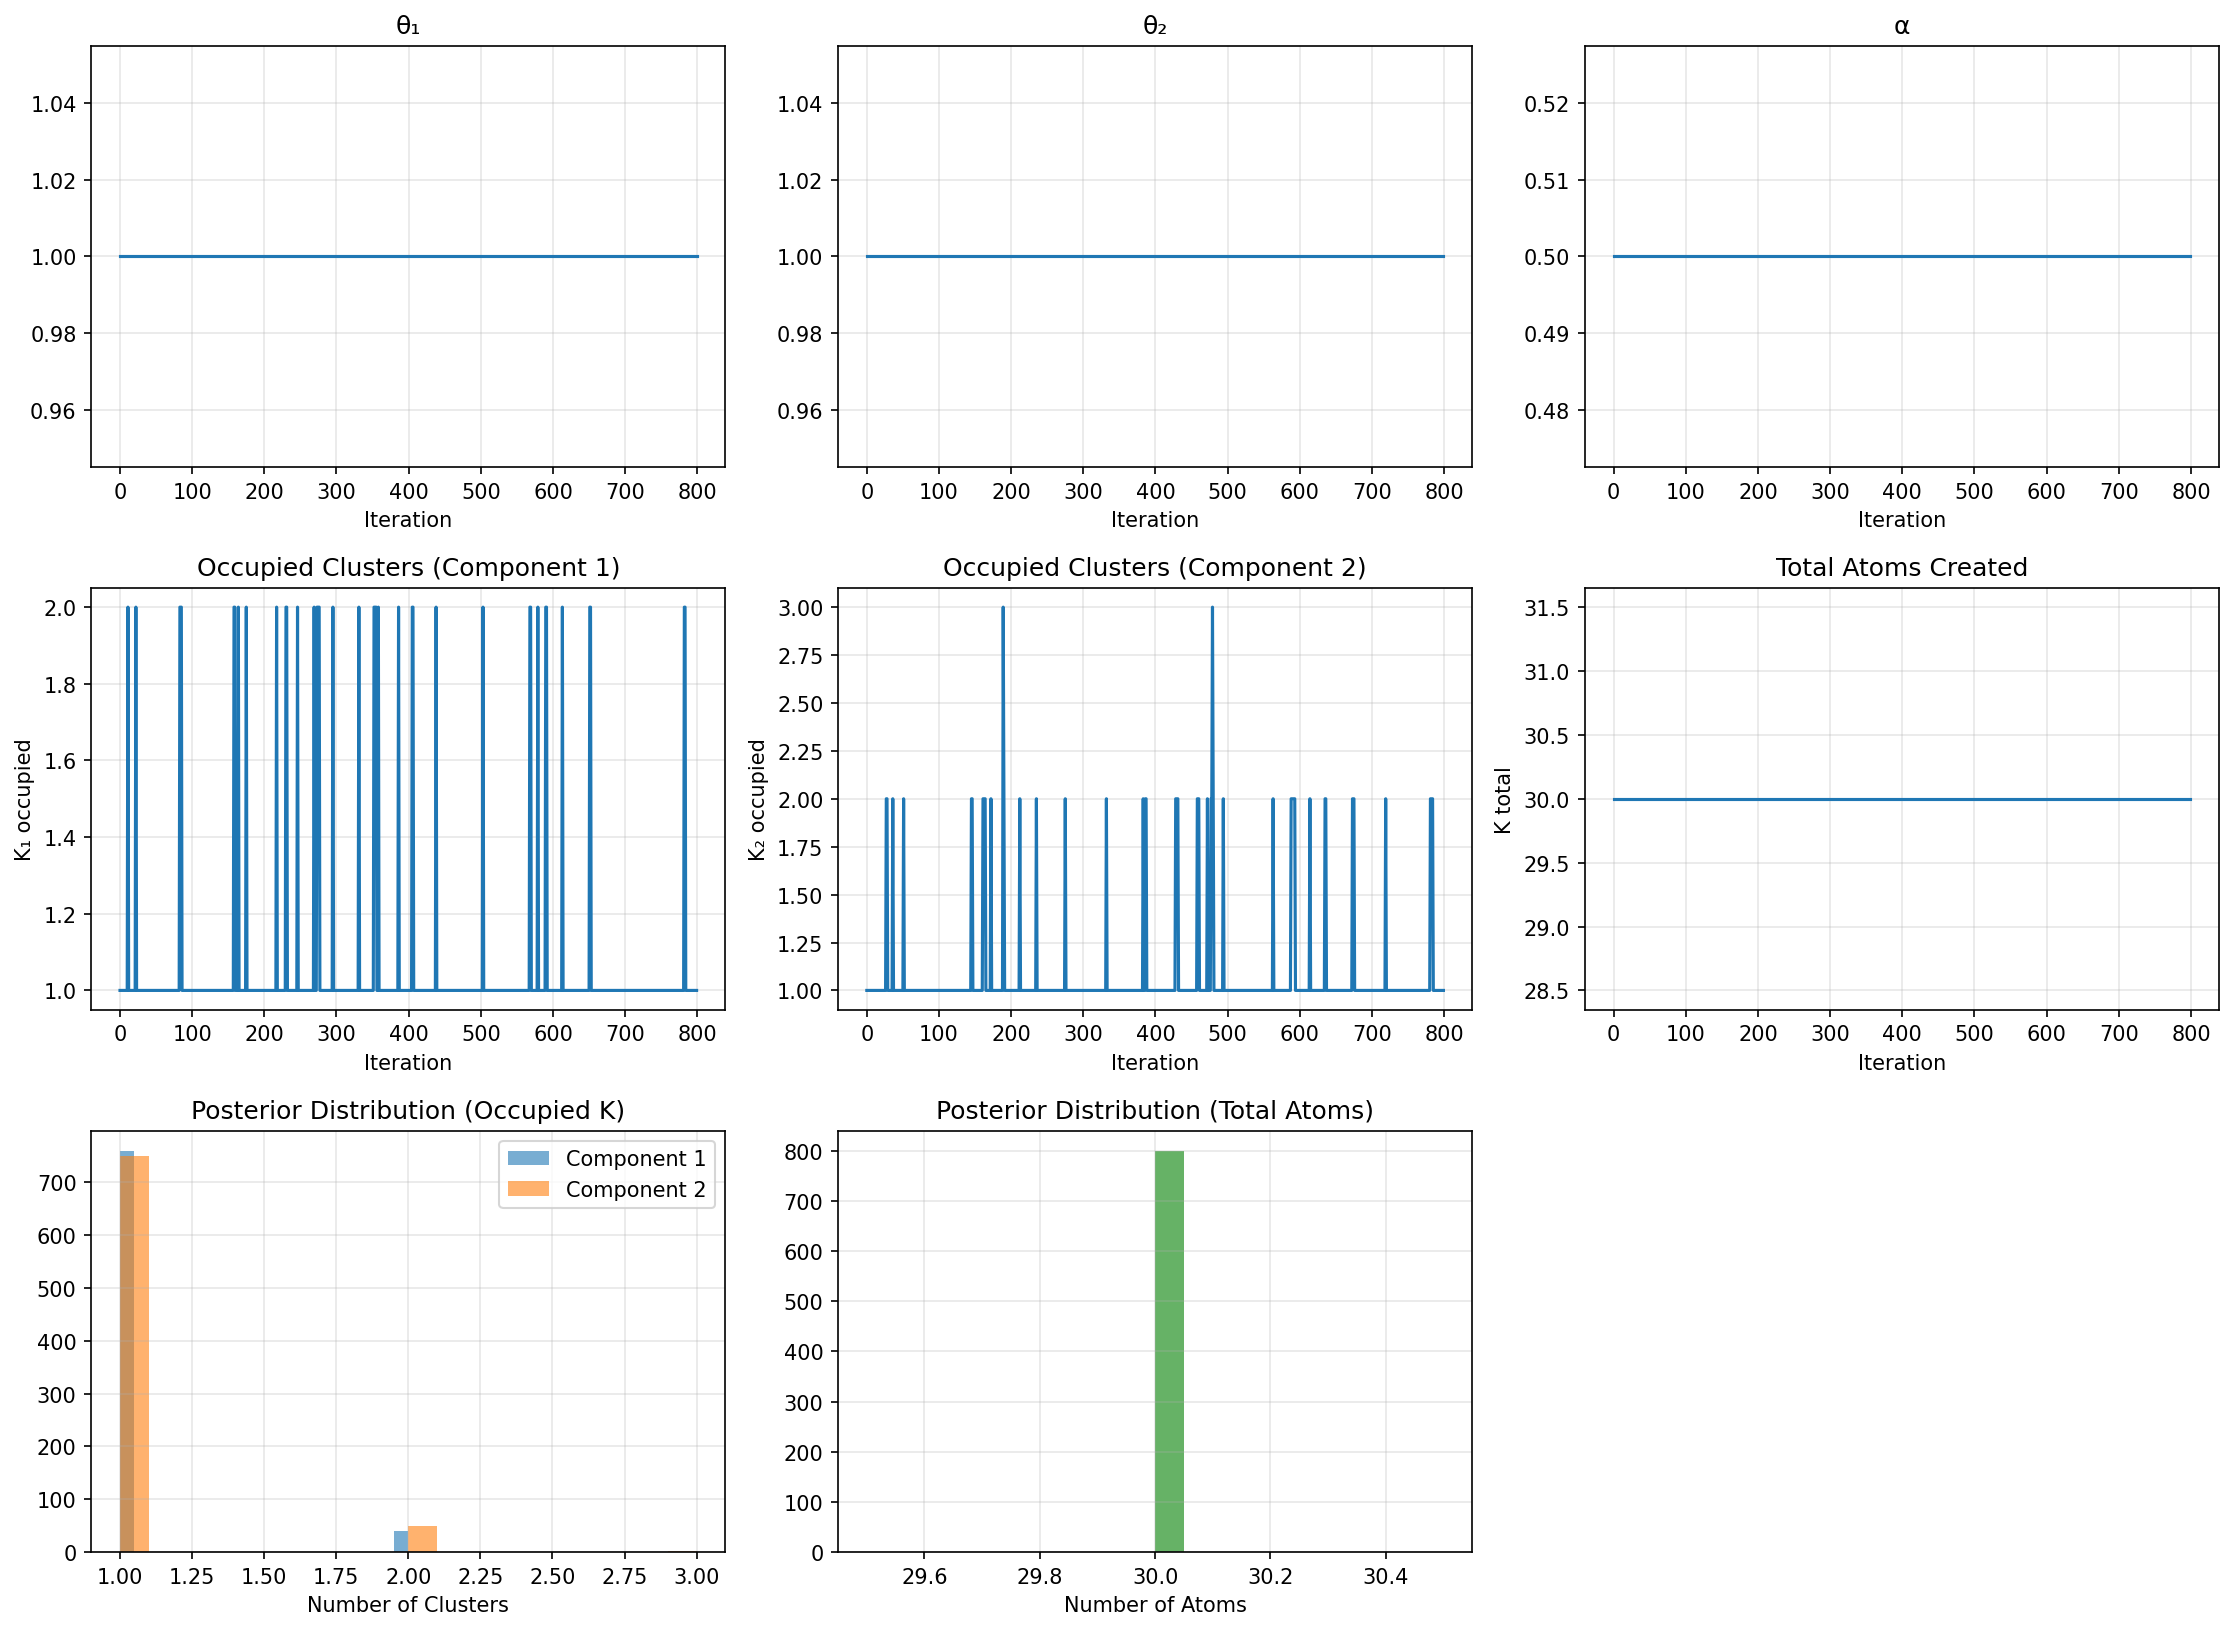
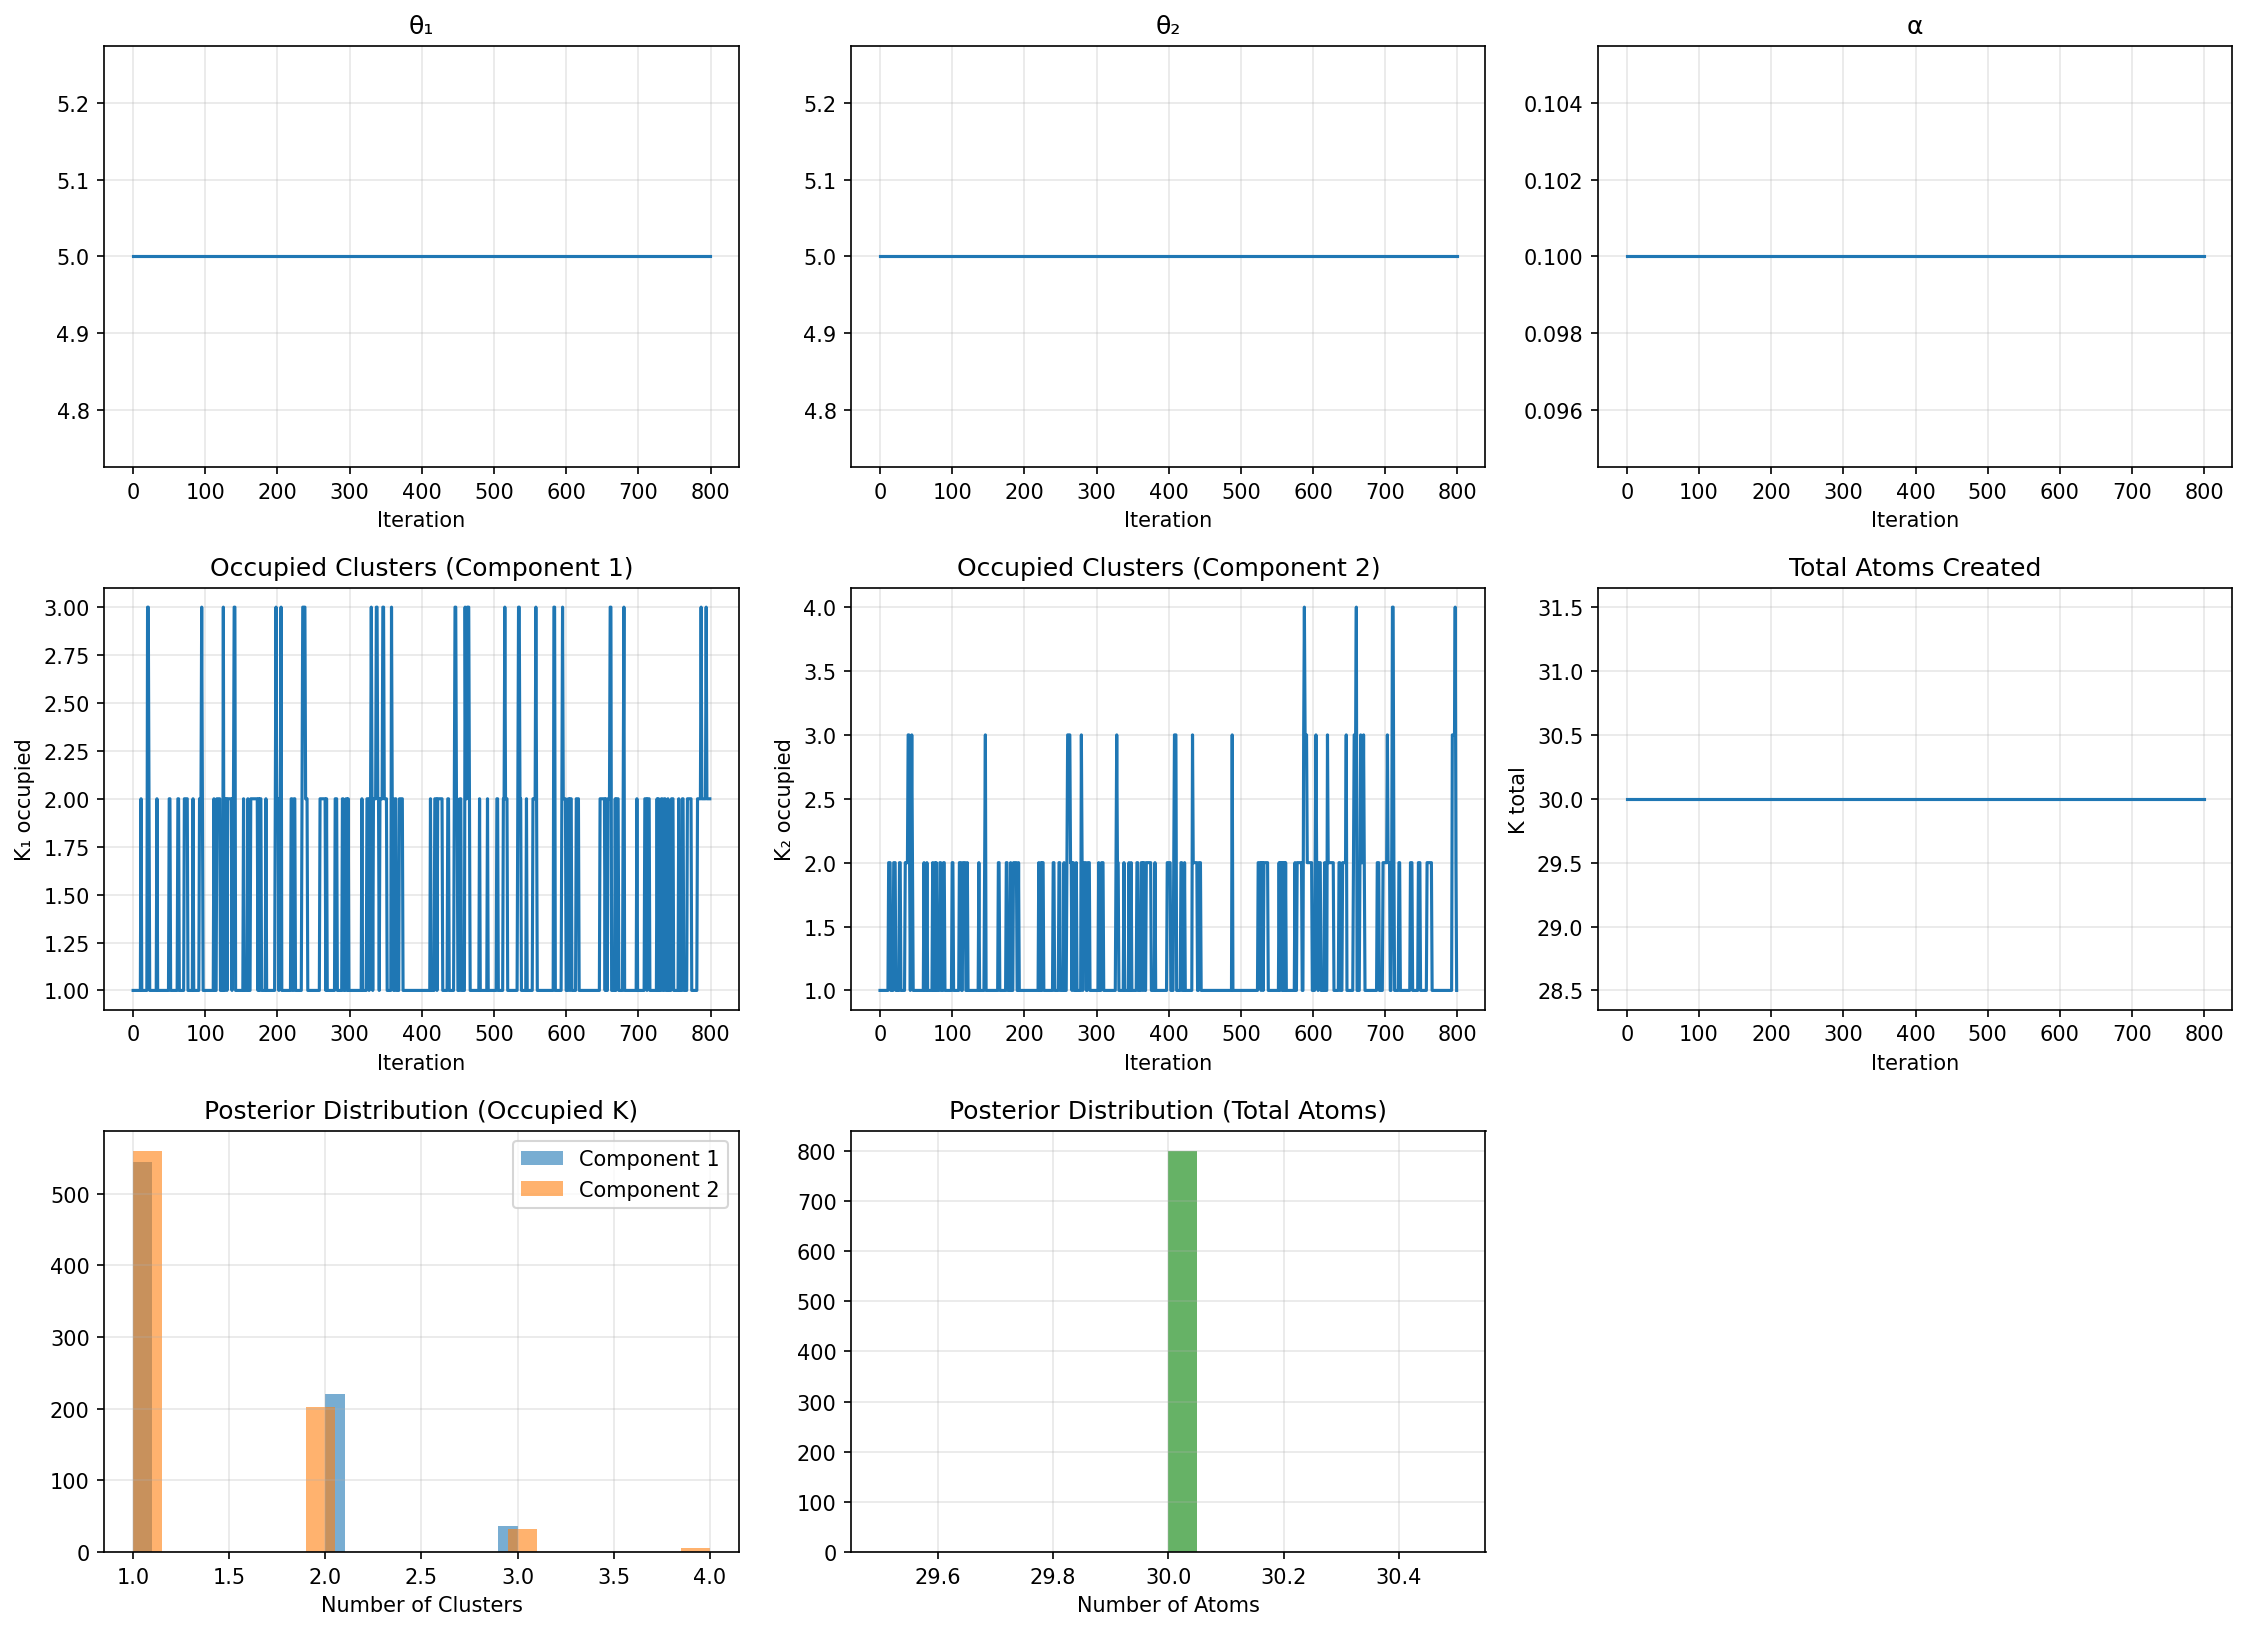
Tune hyperparameters: theta=5, alpha=0.1
- Increase theta1=5, theta2=5 (from 3) to favor more clusters
- Decrease alpha=0.1 (from 0.25) for smaller Pitman-Yor discount
- Add prior contributions to MH sampler (currently disabled)
- Previous run: K collapsed to 1-2 with alpha=0.25
- Testing: should improve cluster identification (target K=3)

diff --git a/bassetti_h1_mcmc.py b/bassetti_h1_mcmc.py
@@ -45,10 +45,10 @@ class BassettiBetaDPY_H1_MCMC:
         self.s_0 = hyperparams.get('s_0', 0.1)
         self.lambda_param = hyperparams.get('lambda', 1.0)
 
-        # MCMC state variables (FIXED - not sampled)
-        self.theta1 = 1.0  # Fixed
-        self.theta2 = 1.0  # Fixed
-        self.alpha = 0.5   # Fixed discount parameter
+        # MCMC state variables (FIXED - Pitman-Yor)
+        self.theta1 = 5.0  # Fixed - higher to favor more clusters
+        self.theta2 = 5.0  # Fixed
+        self.alpha = 0.1   # Fixed - Small Pitman-Yor discount (must be > 0)
 
         # Allocation variables D_it
         self.D1 = np.zeros(self.T1, dtype=int)
@@ -223,8 +223,8 @@ class BassettiBetaDPY_H1_MCMC:
             b_v2 = self.theta2 + self.alpha * (k+1) + np.sum(A2[k+1:])
             self.V2[k] = beta.rvs(a_v2, b_v2)
 
-        # Sample hyperparameters phi using Metropolis-Hastings
-        # DISABLED: Fix hyperparameters to avoid explosion
+        # Sample hyperparameters phi using Metropolis-Hastings with informative priors
+        # DISABLED: Keep hyperparameters fixed
         # self._sample_phi_mh(D_star, A1, A2)
 
     def _sample_phi_mh(self, D_star, A1, A2):
@@ -298,6 +298,21 @@ class BassettiBetaDPY_H1_MCMC:
                 log_acc += betaln(a_prop, b_prop)
                 log_acc -= (a_prop - 1) * np.log(self.V2[k])
                 log_acc -= (b_prop - 1) * np.log(1 - self.V2[k])
+
+        # Prior contributions
+        # theta1 ~ Gamma(2, 2): log p(theta1) = (a-1)*log(theta1) - b*theta1 + const
+        a_theta, b_theta = 2.0, 2.0
+        log_acc += (a_theta - 1) * (np.log(theta1_prop) - np.log(self.theta1))
+        log_acc -= b_theta * (theta1_prop - self.theta1)
+
+        # theta2 ~ Gamma(2, 2)
+        log_acc += (a_theta - 1) * (np.log(theta2_prop) - np.log(self.theta2))
+        log_acc -= b_theta * (theta2_prop - self.theta2)
+
+        # alpha ~ Beta(1, 10): log p(alpha) = (a-1)*log(alpha) + (b-1)*log(1-alpha) + const
+        a_alpha, b_alpha = 1.0, 10.0
+        log_acc += (a_alpha - 1) * (np.log(alpha_prop) - np.log(self.alpha))
+        log_acc += (b_alpha - 1) * (np.log(1 - alpha_prop) - np.log(1 - self.alpha))
 
         # Jacobian for transformation
         log_acc += xi_prop[0] - xi_current[0]  # theta1
